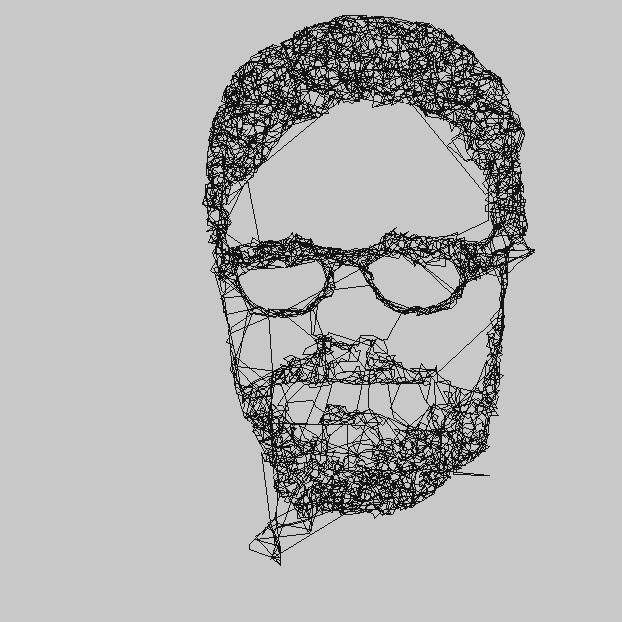
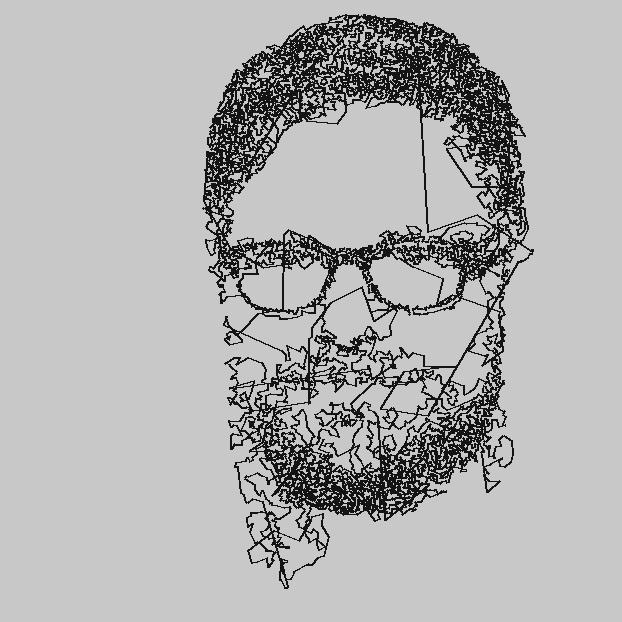
Faster connecting of dots

Changed region(s): [[0.3055, 0.0, 0.8553, 0.9469]]

diff --git a/generate_from_img.py b/generate_from_img.py
@@ -37,16 +37,18 @@ def find_another_dark_pixel(img_px, img_w, img_h):
 
 
 pointlist = []
-
+print("Generating the dots...")
 t = time.time()
 for i in range(NUM_POINTS):
     pointlist += [find_another_dark_pixel(pixels, w, h)]
-print("Generated dots in:", time.time() - t)
-print("Connecting the dots...")
+print("Generated dots in:", time.time() - t, "seconds")
+
 
 # sort points randomish by vicinity #
 # Very lazy TSP. Slow too. :S
 # good_enough = (w * 0.01) ** 2   # Within 1% of the image width is good enough
+print("Connecting the dots...")
+t = time.time()
 def get_coord(n, arr):
     return (tuple(arr[n]),)
 pointlist = np.array(pointlist)
@@ -57,11 +59,13 @@ while len(pointlist) > 1:
     sorted_pointlist += get_coord(best, pointlist)
     pointlist = np.delete(pointlist,best,axis=0)
     
-    # Calculate distances of p to all points in pointlist
-    dists = np.sqrt(((pointlist-p)**2).sum(axis=1))
+    # Calculate the square of the distances of p to all points in pointlist
+    dists = ((pointlist-p)**2).sum(axis=1)
+    # Closest point has the lowest squared distance.
     best = np.argmin(dists)
 
 sorted_pointlist += get_coord(0, pointlist)
+print("Connected the dots in:", time.time() - t, "seconds")
 
 # Preview: draw lines connecting sorted points
 im_result = Image.new("L", im.size, color=200)
